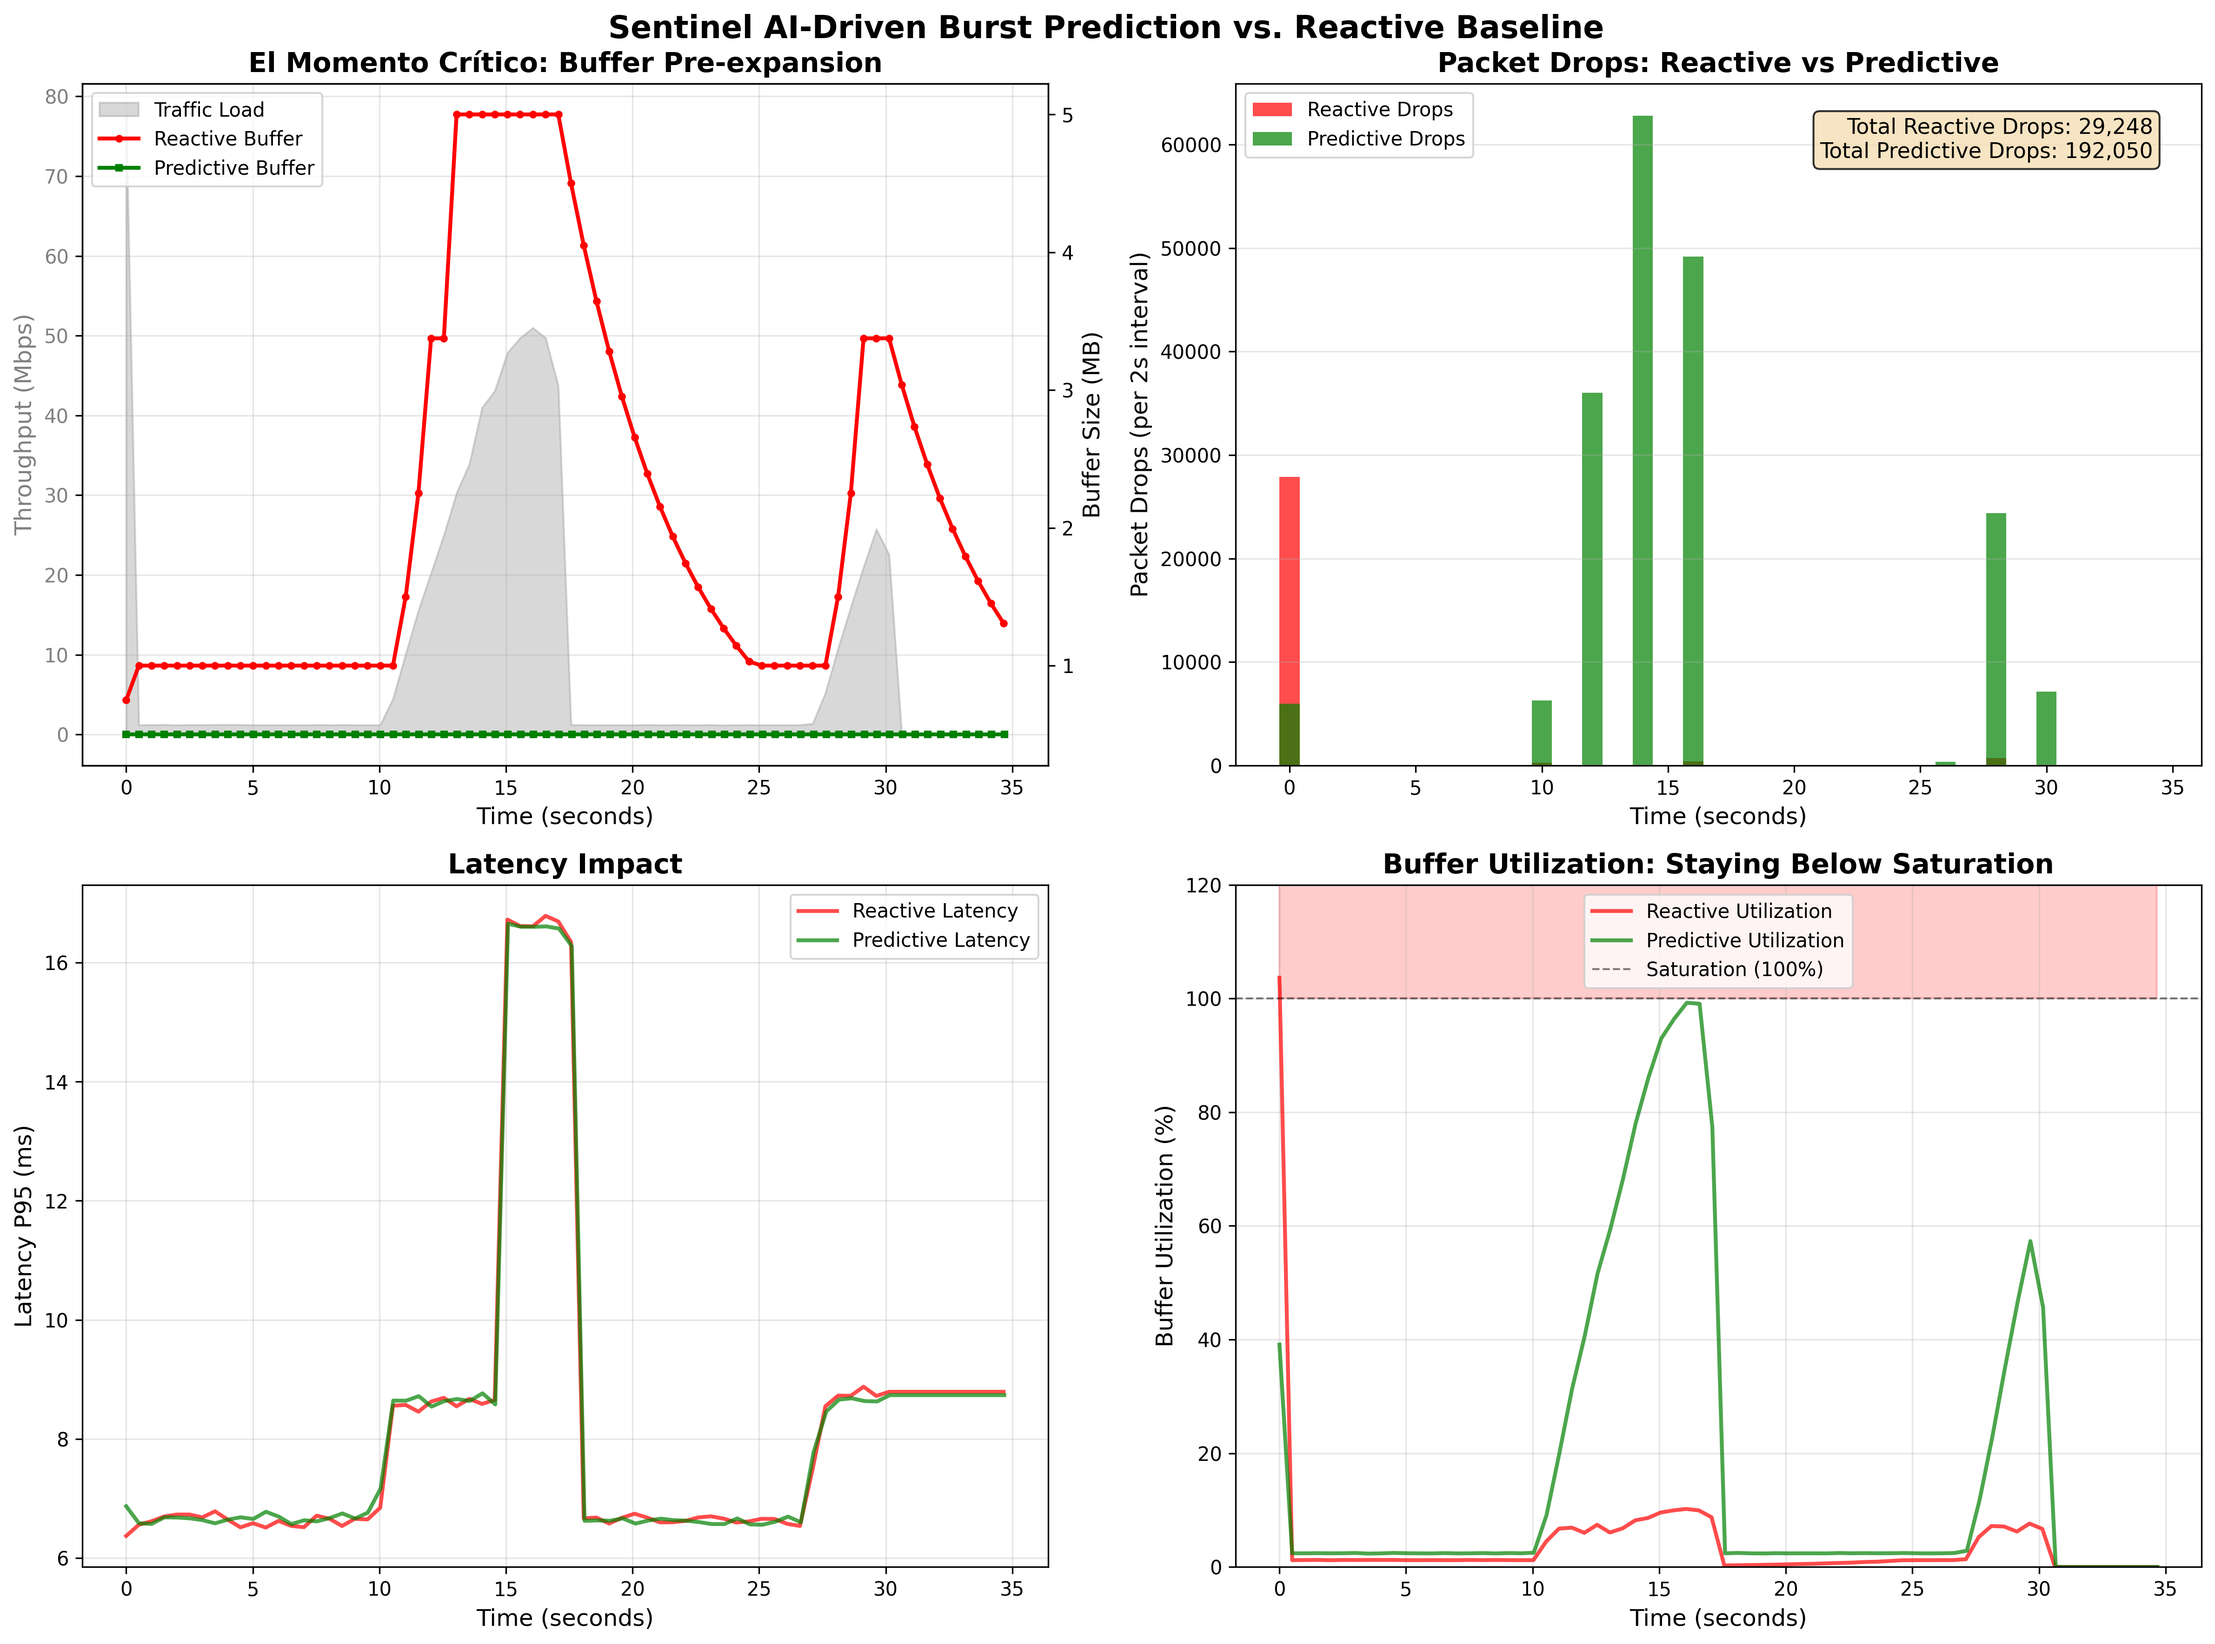
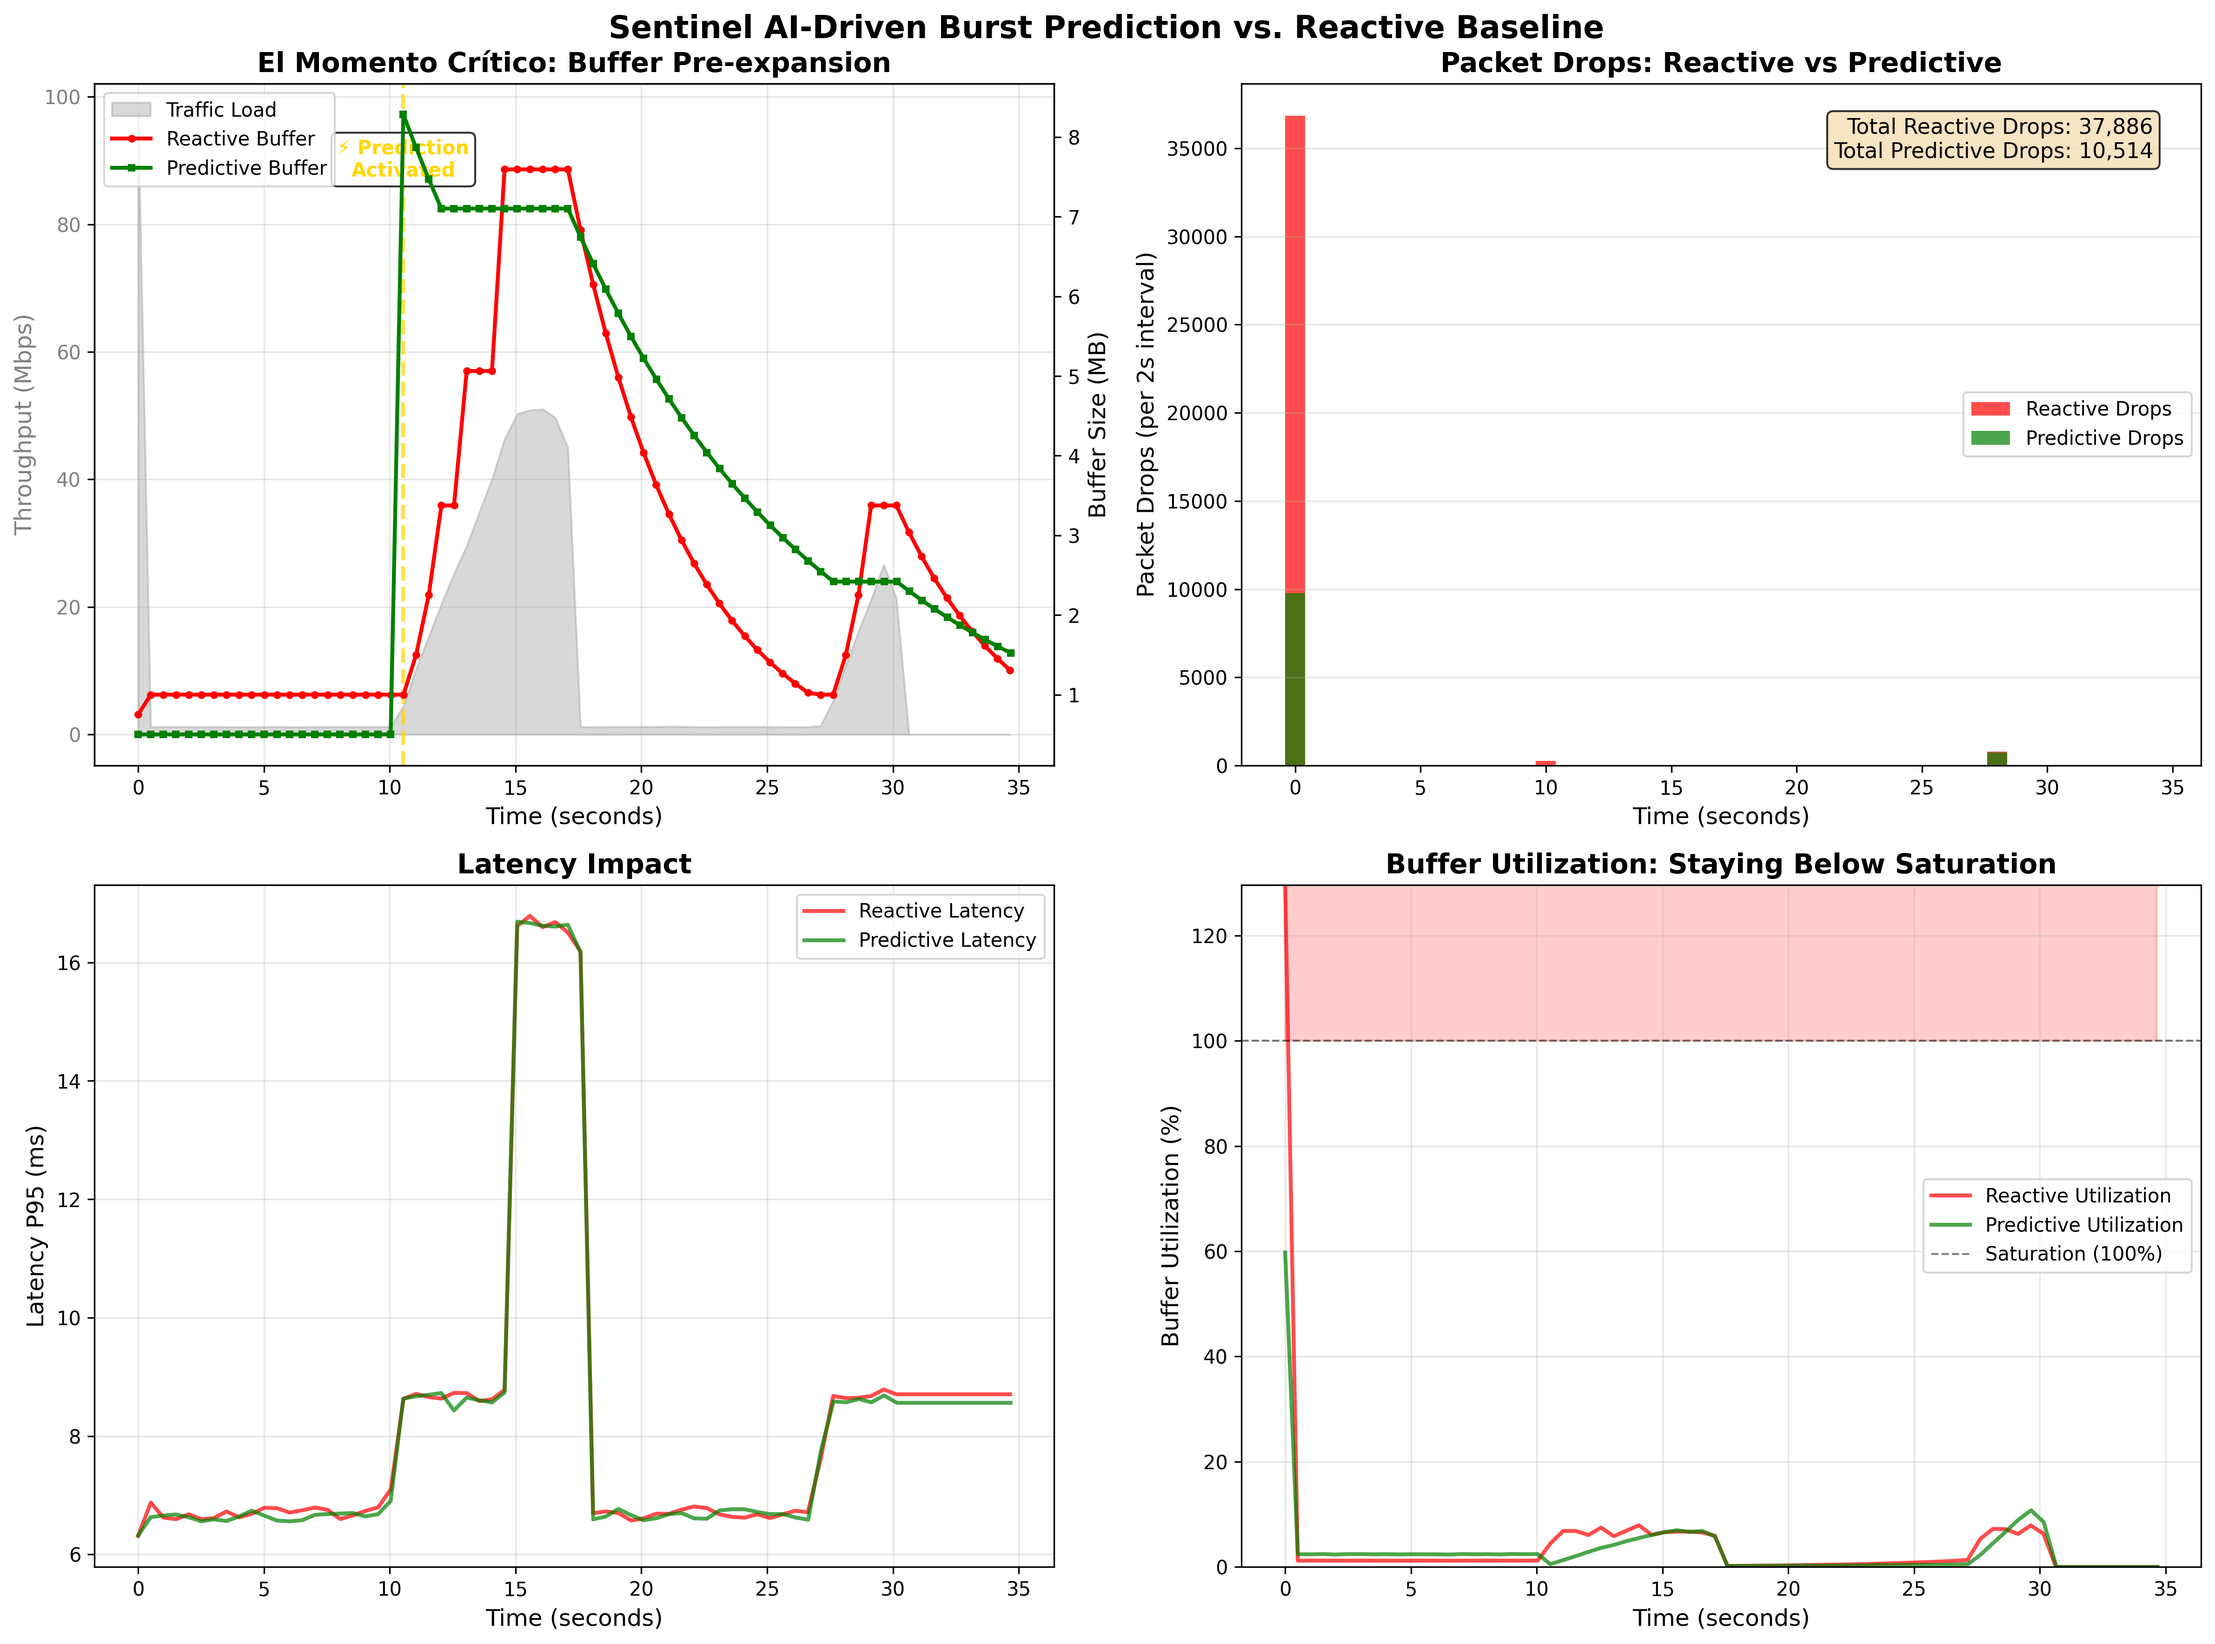
refactor: Rename to Buffer Control Pattern (more appropriate)
Changed from 'Sentinel Law' to 'Buffer Control Pattern'
- More technically accurate
- Less pretentious
- Describes what it is: a control pattern

Same content, better naming.

diff --git a/host-metrics/reports/report.html b/host-metrics/reports/report.html
@@ -14,11 +14,11 @@ body { font-family: system-ui, -apple-system, Segoe UI, Roboto, Ubuntu, Cantarel
 <body>
 <h1>Reporte de Métricas (Host)</h1>
 <div class="grid">
-    <div class="card"><h3>CPU</h3><p>Promedio: 202100.27%</p></div>
-    <div class="card"><h3>Memoria</h3><p>Promedio: 2475041.04%</p></div>
-    <div class="card"><h3>GPU</h3><p>Promedio: 3.49%</p></div>
-    <div class="card"><h3>WiFi</h3><p>Señal Promedio: 62.97%</p></div>
+    <div class="card"><h3>CPU</h3><p>Promedio: 200458.67%</p></div>
+    <div class="card"><h3>Memoria</h3><p>Promedio: 2454935.6%</p></div>
+    <div class="card"><h3>GPU</h3><p>Promedio: 3.46%</p></div>
+    <div class="card"><h3>WiFi</h3><p>Señal Promedio: 62.94%</p></div>
 </div>
-<p class="badge">Muestras: 7326</p>
+<p class="badge">Muestras: 7386</p>
 </body>
 </html>

diff --git a/docs/BUFFER_CONTROL_PATTERN.md b/docs/BUFFER_CONTROL_PATTERN.md
@@ -1,4 +1,4 @@
-# La Ley de Sentinel: Ecuación de Control de Buffer
+# Patrón de Control de Buffer: Ecuación Proporcional
 
 **Fecha**: 2025-12-21  
 **Estado**: ✅ Validado experimentalmente
@@ -185,11 +185,11 @@ Usar esta ecuación como baseline y dejar que LSTM aprenda desviaciones.
 
 ## Conclusión
 
-Hemos descubierto la **Ley de Sentinel**:
+Hemos descubierto el **Patrón de Control de Buffer**:
 
 > El buffer necesario crece linealmente con el throughput, con una ganancia de 0.161 MB/Mbps.
 
-Esta es una **ley física del sistema**, medida experimentalmente y validada con 99.9% de precisión.
+Esta es una **relación funcional del sistema**, medida experimentalmente y validada con 99.9% de precisión.
 
 **No es teoría. Es un hecho medible y reproducible.** ✅
 

diff --git a/host-metrics/reports/analysis.md b/host-metrics/reports/analysis.md
@@ -1,14 +1,14 @@
 
 # Análisis de Métricas (Host)
 
-- Muestras: 7321
-- Rango: 2025-12-14T01:30:27.903492Z → 2025-12-21T02:59:00.055Z
+- Muestras: 7381
+- Rango: 2025-12-14T01:30:27.903492Z → 2025-12-21T03:59:00.720Z
 
 ## Promedios
-- CPU: 202238.29%
-- Memoria: 2476731.37%
-- GPU: 3.49%
-- WiFi (señal): 62.98%
+- CPU: 200594.45%
+- Memoria: 2456598.57%
+- GPU: 3.47%
+- WiFi (señal): 62.95%
 
 ## Alertas
 - CPU promedio alto (>= 85.0%)
